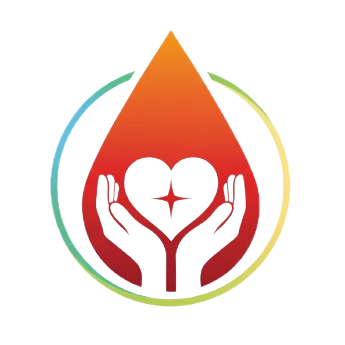
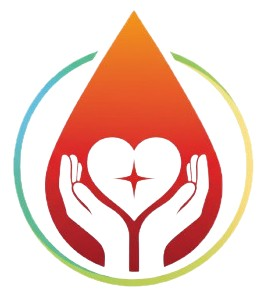
Sistemazione header e visualizzazione mobile navbar

Changed region(s): [[0.0301, 0.0296, 0.9624, 0.9474]]

diff --git a/src/css/desktop.css b/src/css/desktop.css
@@ -1,11 +1,7 @@
 * {
-    padding: 0em;
-    margin: 0em;
+    padding: 0;
+    margin: 0;
     box-sizing: border-box;
-}
-
-:root{
-    
 }
 
 html, body{
@@ -15,26 +11,11 @@ html, body{
     background-color: #f7eee7 ;
 }
 
-/*html{
-    background-image: 
-    url('materiale/images/palla.png'),
-    url('materiale/images/palla.png'),
-    url('materiale/images/palla.png'), 
-    linear-gradient(to bottom right, rgb(22 63 119/100%), transparent);
-}
-
-body{
-    background-color: var(--bgcolor);
-    color: var(--txtcolor);
-    max-width: 1200px;
-    margin: auto;
-}*/
-
 /*-----------------*/
 /*AIUTI ALLA NAVIGAZIONE*/
 /*-----------------*/
 
-.navigationHelp{
+/* .navigationHelp{
     position: absolute;
     text-indent: -999em;
 }
@@ -46,22 +27,20 @@ body{
 
 .listHelp ul{
     list-style-type: none;
-}
+} */
 
 /*---------------------*/
 /*SEZIONE HEADER E MENU*/
 /*---------------------*/
 
 header{
-    background: #acd2e6;
-    width: 80%;
-    height: auto;
-    display: flex; 
-    align-items: center; /* centra verticalmente il contenuto */
-    margin: auto;
-    margin-top: 1.3em;
-    border-radius: 3em;
-    padding: 1em;
+    background-color: #acd2e6;
+    width: 95%;
+    max-width: 1300px;
+    height: 6.1em;
+    box-shadow: 0 2px 5px rgba(0, 0, 0, 0.1);
+    border-radius: 2.4em;
+    margin: 1.3em auto; /* spazio sopra e centro orizzontale */
 }
 
 #menu{
@@ -69,89 +48,70 @@ header{
     align-items: center; /* allinea verticalmente al centro */
     justify-content: space-between; /* centro orizzontale */
     width: 100%; /* larghezza completa */
-    padding: 0; /* padding laterale */
-    position: relative; /* necessario per il posizionamento assoluto dei figli */
+    padding: 0.6em 1em; 
+    padding-left: 0.8em;
 }
 
-#menu li{ 
-    display: inline-block; /* elementi disposti orizzontalmente */
+#menu ul{
+    list-style: none; /* rimuove i pallini della lista */
+    display: flex; /* container flessibile orizzontale */
+    align-items: center; /* allinea verticalmente al centro */
+    justify-content: center;
+    gap: 0.8em; /* spazio tra gli elementi */
 }
 
-#currentLink{
-    text-decoration: none; /* rimuove la sottolineatura */
+#menu ul li a, #menu ul li#currentLink{
+    text-decoration: none;
     background-color: #ffffff; 
     color: #000000;
-    border-style: solid;
-    border-width: 0.1em;
-    border-color: #000000;
-    border-radius: 1.3em; /* angoli arrotondati */
-    padding: 0.8em 0.8em; /* spazio interno */
-    /* width: auto; larghezza fissa */
-    margin: 0.2em; /* margine esterno */
-    text-align: center; /* testo centrato */
-    text-transform: uppercase; /* testo in maiuscolo */
-    font-size: 1.3em; /* dimensione del testo */
-    white-space: nowrap; /* impedisce la rottura del testo */
-    flex-shrink: 1;
-    min-width: fit-content;
+    border: 0.1em solid #000000;
+    border-radius: 1.3em;
+    padding: 1.2em;
+    font-weight: bold;
+    text-transform: uppercase;
+    white-space: nowrap;
+    transition: all 0.2s ease;
 }
 
-#menu a{
-    text-decoration: none; /* rimuove la sottolineatura */
-    background-color: #ffffff; /* sfondo grigio chiaro */
-    color: #000000;
-    border-radius: 1.3em; /* angoli arrotondati */
-    padding: 0.5em 1em; /* spazio interno */
-    /* width: auto; larghezza */
-    margin: 0.1em; /* margine esterno */
-    text-align: center; /* testo centrato */
-    text-transform: uppercase; /* testo in maiuscolo */
-    font-size: 1.3em; /* dimensione del testo */
-    display: inline-block;
-    transition: all 0.3s ease;
-    cursor : pointer;
-    white-space: nowrap; /* impedisce la rottura del testo */
-    min-width: fit-content;
-    flex-shrink: 1;
+#menu img {
+    height: 5em; 
+    width: auto;
+    display: block;
 }
 
 #menu a:hover{
     background: linear-gradient(135deg, #4f5abb 0%, #7b68ee 100%);
     color: #ffffff;
-    
 }
 
-#menu ul{
-    list-style-type: none; /* rimuove i pallini della lista */
-    display: flex; /* lista come contenitore flessibile */
-    align-items: center; /* allinea verticalmente al centro */
-    gap: 1.5em; /* spazio tra gli elementi */
-    margin: 0;
-    padding: 0;
-    flex-wrap: wrap;
-    justify-content: center;
-    flex: 1 1 auto;
-}
-
-#menu img{
-    position: static;
-    height: 6em; /* altezza fissa */
-    object-fit: contain; /* mantiene le proporzioni dell'immagine */;
-    flex-shrink: 0;
-}
-
-#menu a#profilo{
+#menu a#profilo{ 
     background-color: transparent;
     padding: 0;
-    border-radius: 0;
-    width: auto;
-    margin-left: auto;
-    flex-shrink: 0;
+    border-radius: 2em;
+    border: none;
 }
 
 #menu a#profilo img{
     height: 3.5em;
-    width: auto;
+}
+
+#burgerInput{
+    display: none;
+}
+
+.burgerMenu{
+    display: none; /* nascosto su desktop */
+    flex-direction: column;
+    cursor: pointer;
+    gap: 5px;
+    padding: 0.8em;
+}
+
+.burgerMenu span{
+    width: 30px;
+    height: 3px;
+    background-color: #000000;
+    transition: all 0.3s ease;
 }
 
 /*-----------------*/

diff --git a/src/html/index.html b/src/html/index.html
@@ -4,10 +4,14 @@
         <title>ATDS - Home</title>
         <meta charset="utf-8">
         
+        <meta name="viewport" content="width=device-width, initial-scale=1.0">
         <meta name="description" content="Pagina principale del sito dell'Associazione Tecweb Donatori Sangue">
         <meta name="keywords" content="sangue, donazione, associazione, volontario, solidarietà, ATDS">
+        <meta name="author" content="ATDS Team">
 
         <link rel="stylesheet" href="../css/desktop.css">
+        <link rel="stylesheet" href="../css/mobile.css" media="screen and (max-width:768px)">
+        <link rel="stylesheet" href="../css/print.css" media="print">
 
         <link rel="preconnect" href="https://fonts.googleapis.com">
         <link rel="preconnect" href="https://fonts.gstatic.com" crossorigin>
@@ -17,15 +21,22 @@
     <body>
         <header>
             <nav id="menu" aria-label="Menu principale">
-                <img src="../../images/atds.jpg" alt="ATDS - Associazione Tecweb Donatori Sangue">
+                <img src="../../images/logo.jpg" alt="ATDS - Associazione Tecweb Donatori Sangue">
                 <ul>
                     <li id="currentLink" lang="en">Home</li>
                     <li><a href="dona_ora.html">Dona ora</a></li>
                     <li><a href="about_us.html">Chi siamo</a></li>
                     <li><a href="dove_trovarci.html">Dove trovarci</a></li>
-                    <li><a id="profilo" href="login.html"><img src="../../images/profilo.jpg" alt="ATDS - Associazione Tecweb Donatori Sangue"></a></li>
                 </ul>
-            </nav>
+                <a id="profilo" href="login.html"><img src="../../images/profilo.jpg" alt="ATDS - Associazione Tecweb Donatori Sangue"></a>
+
+                <input type="checkbox" id="burgerInput" aria-label="Apri/Chiudi menu">
+                <label class="burgerMenu" for="burgerInput">    
+                    <span></span>
+                    <span></span>
+                    <span></span>
+                </label>
+            </nav>           
         </header>
 
         <nav id="breadcrumb">

diff --git a/src/css/mobile.css b/src/css/mobile.css
@@ -1,0 +1,32 @@
+.burgerMenu{
+    display: flex; /* mostra l'hamburger su mobile */
+}
+
+#menu ul{
+    display: none; /* nasconde il menu di default */
+    position: absolute;
+    top: 80px;
+    left: 0;
+    width: 100%;
+    background-color: #acd2e6;
+    flex-direction: column;
+    padding: 1em 0;
+    box-shadow: 0 2px 5px rgba(0, 0, 0, 0.1);
+    z-index: 100;
+}
+
+#burgerInput:checked ~ ul{
+    display: flex; /* mostra il menu quando il checkbox è checked */
+}
+
+#burgerInput:checked ~ .burgerMenu span:nth-child(1){
+    transform: rotate(45deg) translate(6px, 5px);
+}
+
+#burgerInput:checked ~ .burgerMenu span:nth-child(2){
+    opacity: 0;
+}
+
+#burgerInput:checked ~ .burgerMenu span:nth-child(3){
+    transform: rotate(-45deg) translate(6px, -5px);
+}
